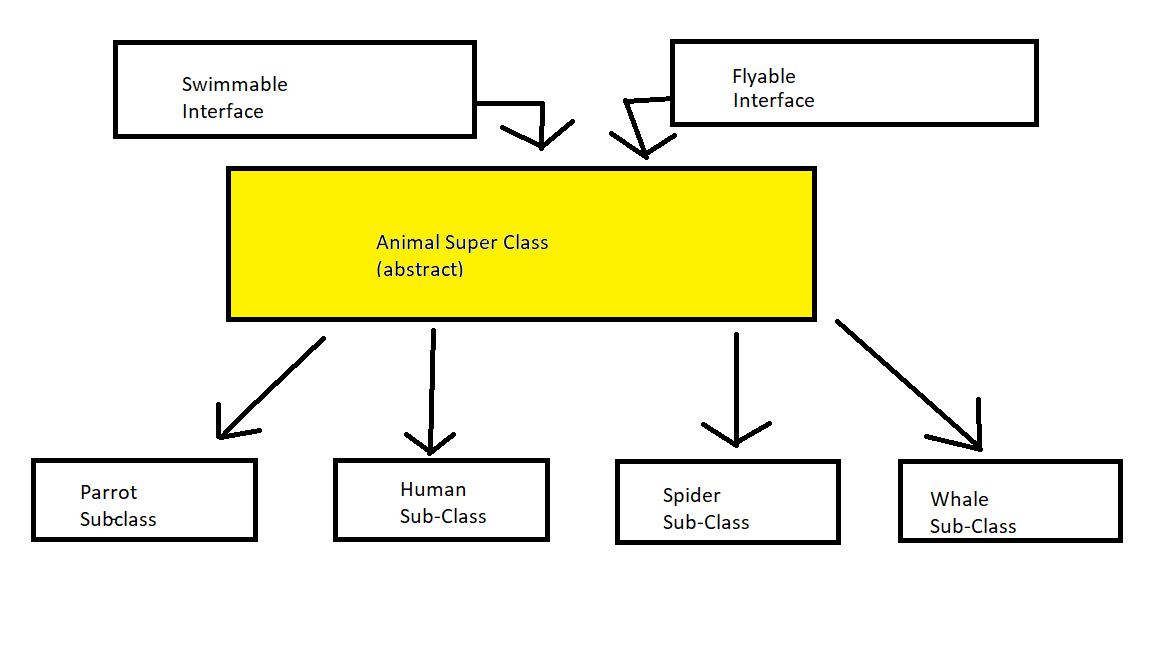
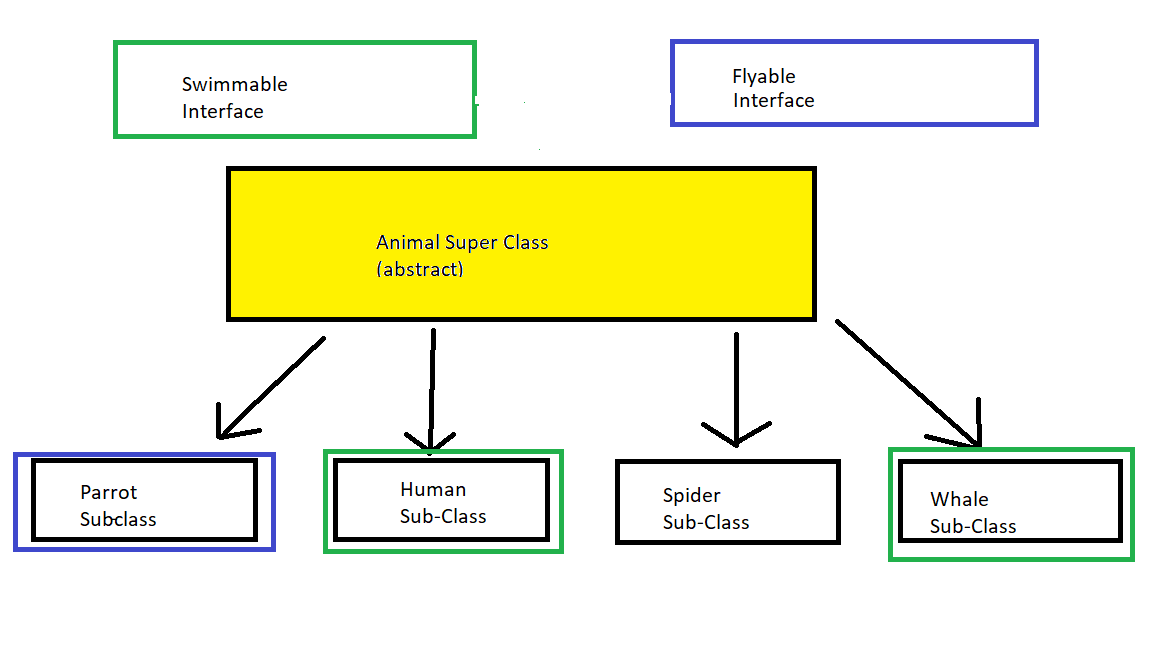
Corrected for the right interfaces

diff --git a/src/com/qa/main/Parrot.java b/src/com/qa/main/Parrot.java
@@ -1,6 +1,6 @@
 package com.qa.main;
 
-public class Parrot extends Animal {
+public class Parrot extends Animal implements Flyable{
 	
 	protected int numberOfLegs = 2;
 	protected int LifeSpan = 60;
@@ -18,7 +18,7 @@ public class Parrot extends Animal {
 
 	@Override
 	public String noise() {
-		return "QAH QAAAH!!";
+		return "CAH CAAAH!!";
 		
 	}
 
@@ -28,10 +28,6 @@ public class Parrot extends Animal {
 		
 	}
 
-	@Override
-	public void swim() {
-		System.out.println("I cannot swim");
-		
-	}
+	
 
 }

diff --git a/src/com/qa/main/Whale.java b/src/com/qa/main/Whale.java
@@ -1,6 +1,6 @@
 package com.qa.main;
 
-public class Whale extends Animal {
+public class Whale extends Animal implements Swimmable {
 	
 	protected int numberOfLegs = 0;
 	protected int LifeSpan = 80;
@@ -21,11 +21,6 @@ public class Whale extends Animal {
 		return "Whistles" ;
 	}
 
-	@Override
-	public void fly() {
-		System.out.println("I cannot fly.");
-		
-	}
 
 	@Override
 	public void swim() {

diff --git a/src/com/qa/main/Human.java b/src/com/qa/main/Human.java
@@ -1,6 +1,6 @@
 package com.qa.main;
 
-public class Human extends Animal{
+public class Human extends Animal implements Swimmable{
 	
 	protected int numberOfLegs =2;
 	protected int LifeSpan = 80;
@@ -22,11 +22,6 @@ public class Human extends Animal{
 		
 	}
 
-	@Override
-	public void fly() {
-		System.out.println("I cannot fly");
-		
-	}
 
 	@Override
 	public void swim() {

diff --git a/src/com/qa/main/Animal.java b/src/com/qa/main/Animal.java
@@ -1,6 +1,6 @@
 package com.qa.main;
 
-public abstract class Animal implements Flyable, Swimmable{
+public abstract class Animal {
 	
 	protected int numberOfLegs;
 	
@@ -11,5 +11,11 @@ public abstract class Animal implements Flyable, Swimmable{
 	public abstract String name();
 	
 	public abstract String noise();
+
+	public void swim() {
+	}
+
+	public void fly() {
+	}
 	
 }

diff --git a/src/com/qa/main/Runner.java b/src/com/qa/main/Runner.java
@@ -11,12 +11,11 @@ public class Runner {
 		//Runners for Parrot
 		System.out.println(parrot1.noise());
 		parrot1.fly();
-		parrot1.swim();
+		
 		
 		//Runners for Whale
 		
 		System.out.println(whale1.name());
-		whale1.fly();
 		whale1.swim();
 		System.out.println(whale1.noise());
 		

diff --git a/src/com/qa/main/Spider.java b/src/com/qa/main/Spider.java
@@ -25,17 +25,5 @@ public class Spider extends Animal {
 	}
 
 
-	@Override
-	public void fly() {
-		System.out.println("I cannot fly");
-		
-	}
-
-
-	@Override
-	public void swim() {
-		System.out.println("I cannot swim");
-		
-	}
 
 }

diff --git a/src/com/qa/main/Flyable.java b/src/com/qa/main/Flyable.java
@@ -2,7 +2,7 @@ package com.qa.main;
 
 public interface Flyable {
 	
-	public  void fly() ;
+	public void fly() ;
 		
 	
 
